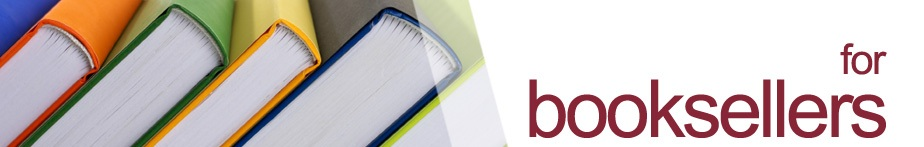
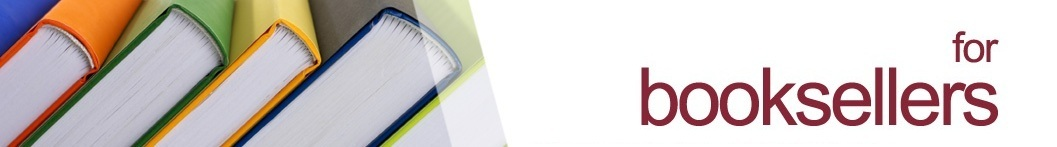
re-design front page

diff --git a/app/webroot/css/custome.css b/app/webroot/css/custome.css
@@ -19,10 +19,7 @@
     color:  #882132;;
     /*color:  #E18728;*/
 }
-#sidebar {
-    border: 1px solid #C9C9C9;
-    padding-right: 10px;
-}
+
 .notification .close{
     margin: 5px;
 }
@@ -106,7 +103,7 @@ h1,h2,h3,h4 {
 
 #navigation {
     float: right;
-    /*height: 30px;*/
+    height: 30px;
     /*color: #fff;*/
     /*background-color: #3d9abf;*/
 }/*
@@ -139,12 +136,119 @@ h1,h2,h3,h4 {
     border-radius: 2px;
 }
 #content {
-    border-top: 1px solid #C9C9C9;
+    /*border-top: 1px solid #C9C9C9;*/
     padding: 10px 0 0 12px;
 }
 .book-details .book-left ul {
     margin-left: 0px;
 }
 .read-more-btn {
-    float:right;
+    /*float:right;*/
+    margin-right: 15px;
+}
+
+.page-curl {
+	background: #FFFFFF;
+	background: -moz-linear-gradient(0deg, #F5F5F5 0%, #FFF 25%, #FFF 75%, #F5F5F5 100%);
+	background: -ms-linear-gradient(0deg, #F5F5F5 0%, #FFF 25%, #FFF 75%, #F5F5F5 100%);
+	background: -webkit-linear-gradient(0deg, #F5F5F5 0%, #FFF 25%, #FFF 75%, #F5F5F5 100%);
+	background: linear-gradient(0deg, #F5F5F5 0%, #FFF 25%, #FFF 75%, #F5F5F5 100%);
+	border: 1px solid #777777;
+	-moz-border-radius: 6px 6px 6px 6px;
+	-webkit-border-radius: 6px 6px 6px 6px;
+	border-radius: 6px 6px 6px 6px;
+	-moz-box-shadow: 0 0 6px rgba(0, 0, 0, 0.5);
+	-webkit-box-shadow: 0 0 6px rgba(0, 0, 0, 0.5);
+	box-shadow: 0 0 6px rgba(0, 0, 0, 0.5);
+	/*margin: 50px auto;*/
+	padding: 15px;
+	position: relative;
+	width: 700px;
+}
+
+.page-curl:before, .page-curl:after {
+	background: none;
+	bottom: 12px;
+	-moz-box-shadow: 0 10px 12px rgba(0, 0, 0, 0.5);
+	-webkit-box-shadow: 0 10px 12px rgba(0, 0, 0, 0.5);
+	box-shadow: 0 10px 12px rgba(0, 0, 0, 0.5);
+	content: "";
+	height: 10px;
+	left: 12px;
+	position: absolute;
+	width: 40%;
+	z-index: -1;
+	-moz-transform: skew(-4deg) rotate(-4deg);
+	-webkit-transform: skew(-4deg) rotate(-4deg);
+	transform: skew(-4deg) rotate(-4deg);
+}
+
+.page-curl:after {
+	-moz-transform: skew(4deg) rotate(4deg);
+	-webkit-transform: skew(4deg) rotate(4deg);
+	transform: skew(4deg) rotate(4deg);
+	left: auto;
+	right: 12px;
+}
+
+.page-curl.shadow-left {
+	background: -moz-linear-gradient(0deg, #F5F5F5 0%, #FFF 50%) !important;
+	background: -ms-linear-gradient(0deg, #F5F5F5 0%, #FFF 50%) !important;
+	background: -webkit-linear-gradient(0deg, #F5F5F5 0%, #FFF 50%) !important;
+	background: linear-gradient(0deg, #F5F5F5 0%, #FFF 50%) !important;
+}
+
+.page-curl.shadow-right {
+	background: -moz-linear-gradient(0deg, #FFF 50%, #F5F5F5 100%) !important;
+	background: -ms-linear-gradient(0deg, #FFF 50%, #F5F5F5 100%) !important;
+	background: -webkit-linear-gradient(0deg, #FFF 50%, #F5F5F5 100%) !important;
+	background: linear-gradient(0deg, #FFF 50%, #F5F5F5 100%) !important;
+}
+
+.shadow-bottom:before, .shadow-bottom:after {
+	top: auto;
+	bottom: 12px;
+	-moz-box-shadow: 0 10px 12px rgba(0, 0, 0, 0.5);
+	-webkit-box-shadow: 0 10px 12px rgba(0, 0, 0, 0.5);
+	box-shadow: 0 10px 12px rgba(0, 0, 0, 0.5);
+}
+
+.shadow-left:after {
+	display: none;
+}
+
+.shadow-right:before {
+	display: none;
+}
+
+.shadow-top-bottom.shadow-left:after {
+	display: block;
+	bottom: auto;
+	top: 15px;
+	right: auto;
+	left: 12px;
+	-moz-box-shadow: 0 -10px 12px rgba(0, 0, 0, 0.5);
+	-webkit-box-shadow: 0 -10px 12px rgba(0, 0, 0, 0.5);
+	box-shadow: 0 -10px 12px rgba(0, 0, 0, 0.5);
+}
+
+.shadow-top-bottom.shadow-right:before {
+	display: block;
+	bottom: auto;
+	top: 15px;
+	right: 12px;
+	left: auto;
+	-moz-box-shadow: 0 -10px 12px rgba(0, 0, 0, 0.5);
+	-webkit-box-shadow: 0 -10px 12px rgba(0, 0, 0, 0.5);
+	box-shadow: 0 -10px 12px rgba(0, 0, 0, 0.5);
+}
+#sidebar {
+    width: 17%;
+    /*border: 1px solid #C9C9C9;*/
+    /*padding-right: 10px;*/
+}
+#content {
+    width: 80%;
+    border-radius: 0px;
+    min-height: 825px;
 }

diff --git a/app/webroot/css/new-style.css b/app/webroot/css/new-style.css
@@ -32,16 +32,22 @@ textarea { overflow: auto; }
 
 .cl { 
     display: block; 
-     height: 7px; 
-     font-size: 0; 
-     line-height: 0; 
-     text-indent: -4000px;
-     clear: both; }
+    height: 7px; 
+    font-size: 0; 
+    line-height: 0; 
+    text-indent: -4000px;
+    clear: both; }
 .notext { font-size: 0; line-height: 0; text-indent: -4000px; }
 .left, .alignleft { float: left; display: inline; }
 .right, .alignright { float: right; display: inline; }
 
-.shell { width: 884px; margin: 0 auto; background: url(/images/shell.png) repeat-y 0 0; padding: 0 57px 0 35px; position: relative; }
+.shell { 
+    background-color: #fff;
+    width: 1056px; 
+    margin: 0 auto;
+    /*background: url(/images/shell.png) repeat-y 0 0;*/
+    padding: 0 35px 0 35px; 
+    position: relative; }
 
 #header { padding-top: 30px; }
 
@@ -153,19 +159,19 @@ textarea { overflow: auto; }
 #best-sellers .price .high { font-size: 11px; line-height: 14px; vertical-align: super;}
 #best-sellers .product .author { color: #3d3d3d; }
 
-#footer {  padding: 0; }
+#footer {  
+    margin: 30px 0 15px 0;
+    padding: 0; 
+}
 
 #footer .cnt { background: #44acd5 url(/images/footer-bg.png) repeat-x 0 0; padding: 21px 44px 0 36px; width: 837px; overflow: hidden;}
 #footer h4 { font-size: 16px; line-height: 18px; color: #fff; border-bottom: solid 4px #57b4d9; margin-bottom: 3px; padding-bottom: 6px; }
 #footer .copy {
-    height: 25px; 
+    height: 35px; 
     color: #fff; 
     background: #77303C;
     font-size: 12px;
-    padding: 7px 34px 8px; 
     position: relative; 
-    width: 920px; 
-    margin: 20px 0 2px -36px; 
 }
 #footer .copy a { color: #fff; }
 #footer .col { float: left; display: inline; }
